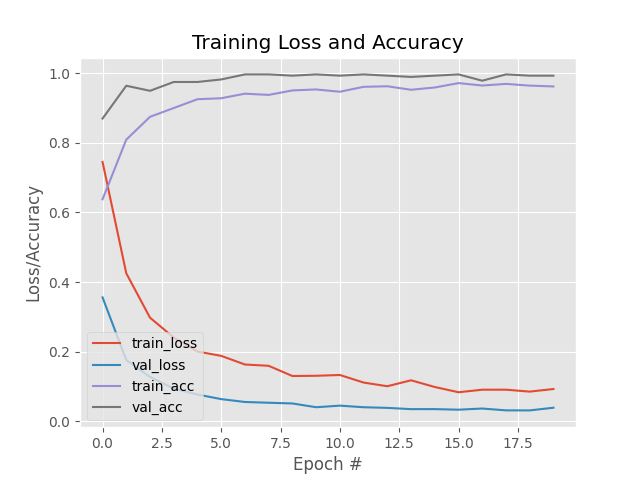
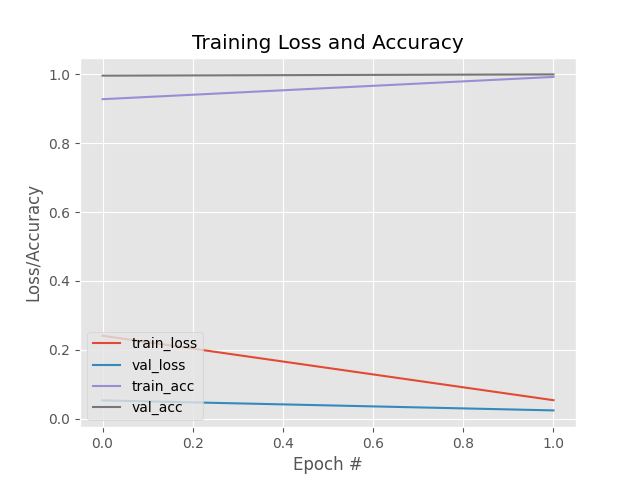
Fixed Images in Analytics and Python program now working.

diff --git a/C200 Web Application - Identity/Startup.cs b/C200 Web Application - Identity/Startup.cs
@@ -11,6 +11,7 @@ using Microsoft.Extensions.DependencyInjection;
 using Microsoft.Extensions.Hosting;
 using System;
 using System.Collections.Generic;
+using System.Diagnostics;
 using System.Linq;
 using System.Threading.Tasks;
 
@@ -28,7 +29,7 @@ namespace C200_Web_Application___Identity
         // This method gets called by the runtime. Use this method to add services to the container.
         public void ConfigureServices(IServiceCollection services)
         {
-            services.AddControllersWithViews(); 
+            services.AddControllersWithViews();
             services.AddAuthentication(
                CookieAuthenticationDefaults.AuthenticationScheme)
                .AddCookie(options =>
@@ -65,6 +66,45 @@ namespace C200_Web_Application___Identity
                     name: "default",
                     pattern: "{controller=Home}/{action=Index}/{id?}");
             });
+
+
+
+            app.UseEndpoints(endpoints =>
+            {
+                endpoints.MapGet("/detectmaskrun", async context =>
+                {
+                    var webRoot = env.WebRootPath;
+                    var pythonPath = System.IO.Path.Combine(webRoot, @"..\..\venv\python.exe");
+                    var filePath = System.IO.Path.Combine(webRoot, @"..\Python\detect_mask_video.py");
+
+                    ProcessStartInfo p = new ProcessStartInfo();
+                    p.FileName = pythonPath;
+                    p.Arguments = "\"" + filePath + "\"";
+                    p.UseShellExecute = true;
+                    p.RedirectStandardOutput = false;
+                    Process.Start(p);
+                    await context.Response.WriteAsync($"opening detect...(takes a while)");
+
+                });
+                endpoints.MapGet("/trainmaskrun", async context =>
+                {
+                    var webRoot = env.WebRootPath;
+                    var pythonPath = System.IO.Path.Combine(webRoot, @"..\..\venv\python.exe");
+                    var filePath = System.IO.Path.Combine(webRoot, @"..\Python\train_mask_detector.py");
+
+                    ProcessStartInfo p = new ProcessStartInfo();
+                    p.FileName = pythonPath;
+                    p.Arguments = "\"" + filePath + "\"";
+                    p.UseShellExecute = true;
+                    p.RedirectStandardOutput = false;
+                    Process.Start(p);
+                    await context.Response.WriteAsync($"opening train...(takes a while)");
+
+                });
+            });
         }
+
+
     }
 }
+

diff --git a/C200 Web Application - Identity/Python/train_mask_detector.py b/C200 Web Application - Identity/Python/train_mask_detector.py
@@ -152,15 +152,15 @@ plt.title("Training Loss and Accuracy")
 plt.xlabel("Epoch #")
 plt.ylabel("Loss/Accuracy")
 plt.legend(loc="lower left")
-plt.savefig("plot.png") #plot.png
+plt.savefig(os.path.join('../wwwroot/Images/Shared', 'plot.png')) #plot.png
 
-loss = str("{:.2f%}".format(H.history["loss"][-1]))
+loss = str("{:.2f}%".format(H.history["loss"][-1]))
 
-valid_loss = str("{:.2f%}".format(H.history["val_loss"][-1]))
+valid_loss = str("{:.2f}%".format(H.history["val_loss"][-1]))
 
-acc = str("{:.2f%}".format(H.history["accuracy"][-1]))
+acc = str("{:.2f}%".format(H.history["accuracy"][-1]))
 
-valid_acc = str("{:.2f%}".format(H.history["val_accuracy"][-1]))
+valid_acc = str("{:.2f}%".format(H.history["val_accuracy"][-1]))
 
 
 with open('Statistics.csv', mode='w') as csv_file:
